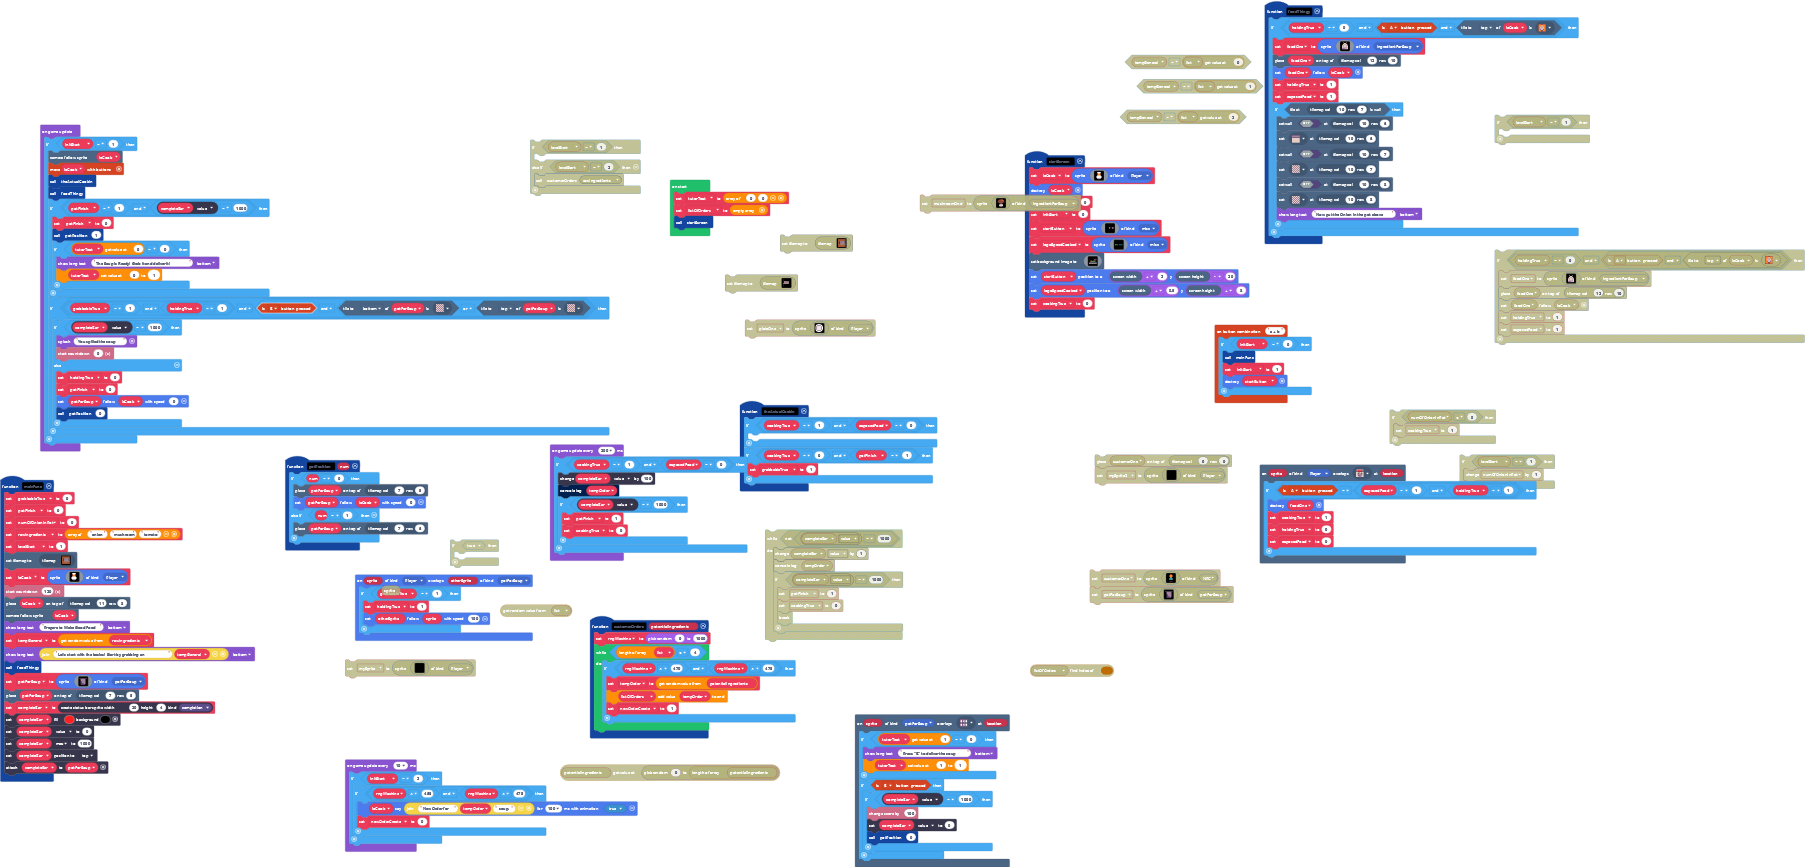
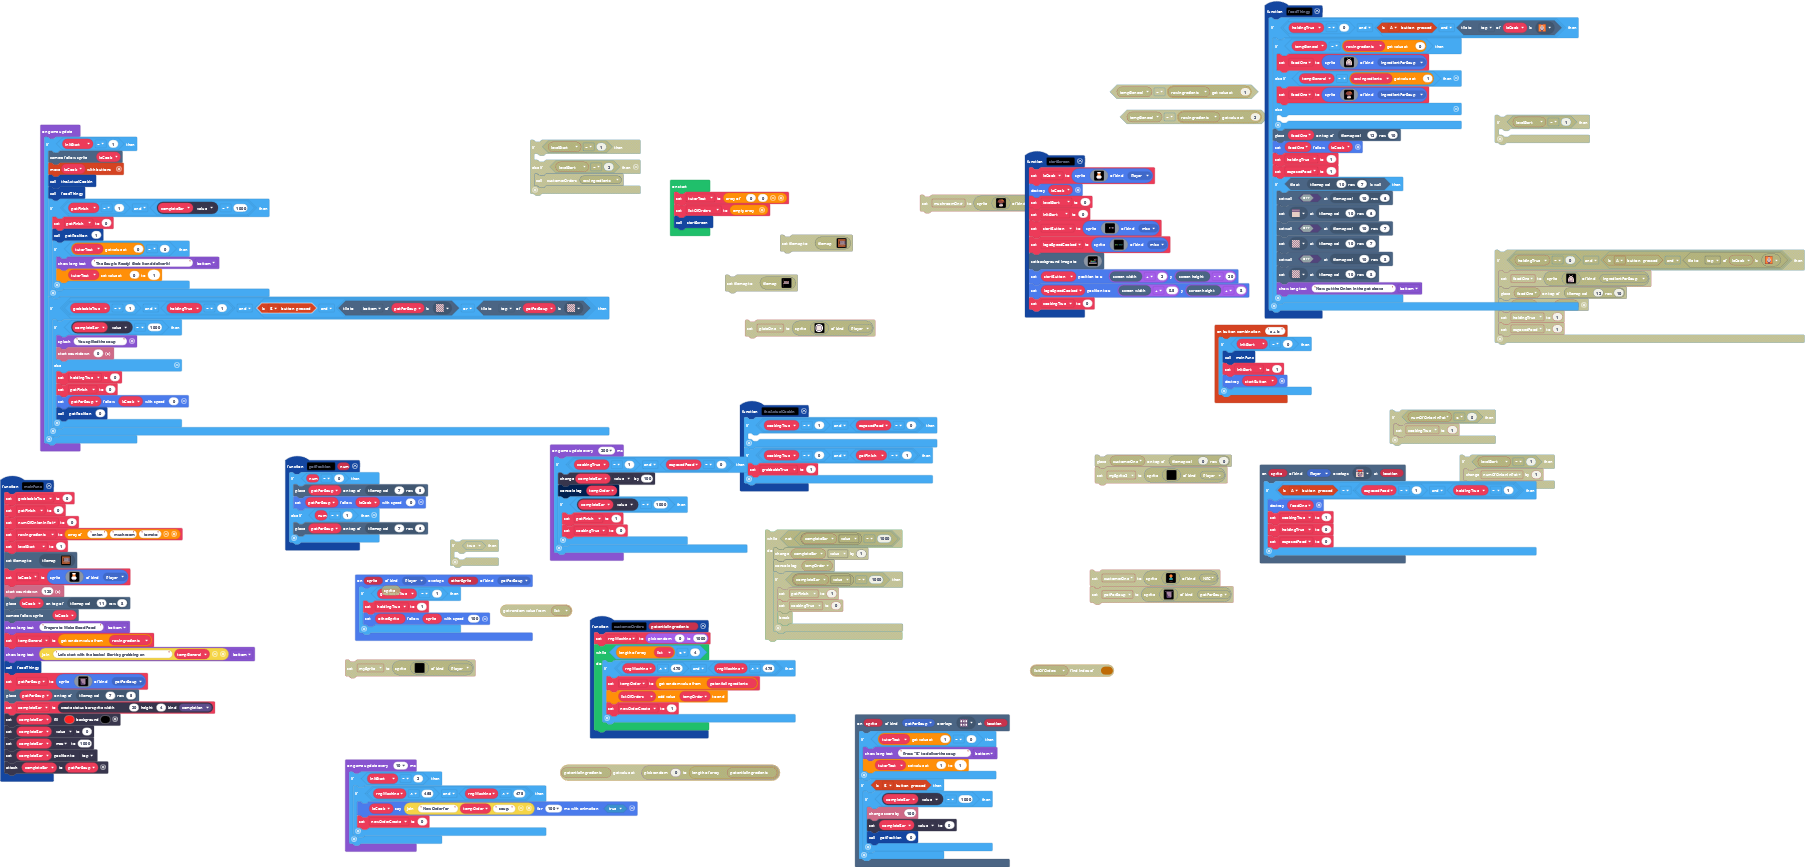
Update main.blocks, main.ts

Changed region(s): [[0.6205, 0.0311, 0.8687, 0.3737], [0.5584, 0.218, 0.6205, 0.2491]]

diff --git a/main.ts b/main.ts
@@ -120,22 +120,22 @@ function startScreen () {
     levelStart = 0
     initStart = 0
     startButton = sprites.create(img`
-        ............................cccccc......................cccccc.......
-        ..........................ccbbbbbbcc..................ccbbbbbbcc.....
-        ..fff....................cbbb1111bbbc................cbbbbbbbbbbc....
-        ..f..f..................cbbb111111bbbc......cc......cbbb11111bbbbc...
-        ..f..f..................cbbb11bb11bbbc.....c11c.....cbbb11bb11bbbc...
-        ..f..f.................cbbb111bb111bbbc....c11c....cbbbb11bb11bbbbc..
-        ..fff..................cbbb11bbbb11bbbc..ccc11ccc..cbbbb11bb11bbbbc..
-        ..f....................cbbb11bbbb11bbbc.c11111111c.cbbbb11111bbbbbc..
-        ..f..f.f.ff...fff..fff.cbbb11111111bbbc.c11111111c.cbbbb11111bbbbbc..
-        ..f..ff.f..f.f....f....cbbb11111111bbbc..ccc11ccc..cbbbb11bb11bbbbc..
-        ..f..f..ffff.f....f....cbbb11bbbb11bbbc....c11c....cbbbb11bb11bbbbc..
-        ..f..f..f.....ff...ff...cbb11bbbb11bbc.....c11c.....cbbb11bb11bbbc...
-        ..f..f..f..f....f....f..cbb11bbbb11bbc......cc......cbbb11111bbbbc...
-        ..f..f...ff..fff..fff....cbbbbbbbbbbc................cbbbbbbbbbbc....
-        ..........................ccbbbbbbcc..................ccbbbbbbcc.....
-        ............................cccccc......................cccccc.......
+        ...............................cccccc......................cccccc.......
+        .............................ccbbbbbbcc..................ccbbbbbbcc.....
+        ..fff.......................cbbb1111bbbc................cbbbbbbbbbbc....
+        ..f..f.....................cbbb111111bbbc......cc......cbbb11111bbbbc...
+        ..f..f.....................cbbb11bb11bbbc.....c11c.....cbbb11bb11bbbc...
+        ..f..f....................cbbb111bb111bbbc....c11c....cbbbb11bb11bbbbc..
+        ..fff.....................cbbb11bbbb11bbbc..ccc11ccc..cbbbb11bb11bbbbc..
+        ..f.......................cbbb11bbbb11bbbc.c11111111c.cbbbb11111bbbbbc..
+        ..f..f.f.ff...fff..fff....cbbb11111111bbbc.c11111111c.cbbbb11111bbbbbc..
+        ..f..ff.f..f.f....f.......cbbb11111111bbbc..ccc11ccc..cbbbb11bb11bbbbc..
+        ..f..f..ffff.f....f.......cbbb11bbbb11bbbc....c11c....cbbbb11bb11bbbbc..
+        ..f..f..f.....ff...ff......cbb11bbbb11bbc.....c11c.....cbbb11bb11bbbc...
+        ..f..f..f..f....f....f.....cbb11bbbb11bbc......cc......cbbb11111bbbbc...
+        ..f..f...ff..fff..fff.......cbbbbbbbbbbc................cbbbbbbbbbbc....
+        .............................ccbbbbbbcc..................ccbbbbbbcc.....
+        ...............................cccccc......................cccccc.......
         `, SpriteKind.misc)
     logoSpeedCooked = sprites.create(img`
         ....ffffffffff.ffffffffffffffff.......ffff..ff.....ff..ffff.ffffffffffffffffff..
@@ -291,7 +291,13 @@ function theActualCookin () {
 }
 function foodThingy () {
     if (holdingTrue == 0 && (controller.A.isPressed() && leCook.tileKindAt(TileDirection.Top, assets.tile`myTile`))) {
-        foodOne = sprites.create(assets.image`Onion`, SpriteKind.ingredientForSoup)
+        if (tempGeneral == rawIngredients[0]) {
+            foodOne = sprites.create(assets.image`Onion`, SpriteKind.ingredientForSoup)
+        } else if (tempGeneral == rawIngredients[1]) {
+            foodOne = sprites.create(assets.image`mushRoom`, SpriteKind.ingredientForSoup)
+        } else {
+        	
+        }
         tiles.placeOnTile(foodOne, tiles.getTileLocation(12, 10))
         foodOne.follow(leCook)
         holdingTrue = 1
